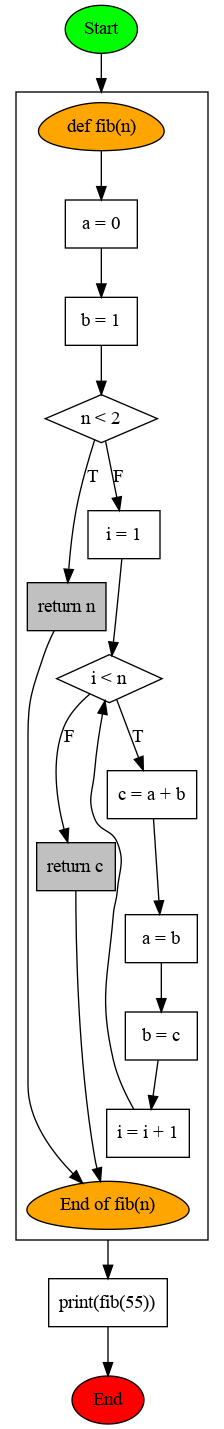
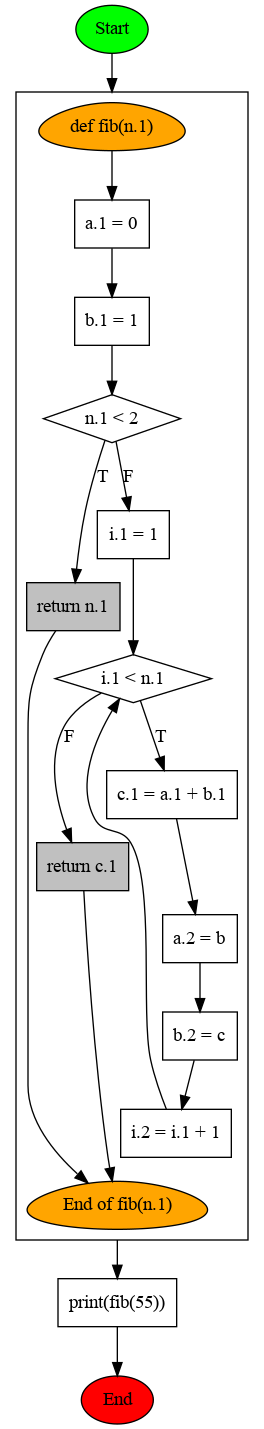
Add basic variables versioning

diff --git a/ssa/builder.py b/ssa/builder.py
@@ -26,6 +26,7 @@ from ast import (
     RShift,
 )
 from dataclasses import dataclass
+from collections import defaultdict
 
 from .statements import (
     NodeData,
@@ -97,6 +98,7 @@ class CFGBuilder(NodeVisitor):
         self.id2statement = dict()
         self.last_node_while = []
         self.id2statement[self.counter] = self.current
+        self.ssa_list = [defaultdict(int)]
 
         # Run visit process
         self.visit(tree)
@@ -117,10 +119,12 @@ class CFGBuilder(NodeVisitor):
 
     def __visit_Assign(self, node):
         variable = node.targets[0].id
+        variable_version = self.ssa_list[-1][variable] + 1
+        variable_label = f"{variable}.{variable_version}"
         if isinstance(node.value, BinOp):
             # TODO: This works only for binary operations: var `op` chat
             # Example: x = x + 1
-            lhs = node.value.left.id
+            lhs = self.__get_argument_value(node.value.left)
             operator = OPERATORS[node.value.op.__class__]
             rhs = self.__get_argument_value(node.value.right)
             value = f"{lhs} {operator} {rhs}"
@@ -137,7 +141,8 @@ class CFGBuilder(NodeVisitor):
                     value += f"{arg.id}, " if i != len(node.value.args) - 1 else arg.id
             value += ")"
 
-        label = f"{variable} = {value}"
+        label = f"{variable_label} = {value}"
+        self.ssa_list[-1][variable] += 1
 
         self.current = Statement(
             NodeData(
@@ -164,13 +169,9 @@ class CFGBuilder(NodeVisitor):
         *,
         for_data: ForAsWhileData | None = None,
     ):
-        lhs = node.test.left.id
+        lhs = self.__get_argument_value(node.test.left)
         comparator = COMPARATORS[node.test.ops[0].__class__]
-        rhs = ""
-        if isinstance(node.test.comparators[0], Constant):
-            rhs = node.test.comparators[0].value
-        elif isinstance(node.test.comparators[0], Name):
-            rhs = node.test.comparators[0].id
+        rhs = self.__get_argument_value(node.test.comparators[0])
         label = f"{lhs} {comparator} {rhs}"
 
         condition = condition_statement(
@@ -255,12 +256,11 @@ class CFGBuilder(NodeVisitor):
         self.statements.append(self.current)
         self.id2statement[self.counter] = self.current
 
-    @staticmethod
-    def __get_argument_value(arg):
+    def __get_argument_value(self, arg):
         if isinstance(arg, Constant):
             return arg.value
         elif isinstance(arg, Name):
-            return arg.id
+            return f"{arg.id}.{self.ssa_list[-1][arg.id]}"
 
     def visit_For(self, node):
         variable = node.target.id
@@ -325,8 +325,11 @@ class CFGBuilder(NodeVisitor):
         function_name = f"{name}("
         args_values = node.args.args
         args = ""
+        ssa = self.ssa_list[-1]
         for i, arg in enumerate(args_values):
-            args += f"{arg.arg}, " if i != len(args_values) - 1 else arg.arg
+            ssa[arg.arg] += 1
+            arg_label = f"{arg.arg}.{ssa[arg.arg]}"
+            args += f"{arg_label}, " if i != len(args_values) - 1 else arg_label
         function_name += f"{args})"
         label = f"def {function_name}"
 
@@ -360,12 +363,7 @@ class CFGBuilder(NodeVisitor):
         self.statements = statements
 
     def visit_Return(self, node):
-        node_value = node.value
-        value = ""
-        if isinstance(node_value, Constant):
-            value = node_value.value
-        elif isinstance(node_value, Name):
-            value = node_value.id
+        value = self.__get_argument_value(node.value)
 
         label = f"return {value}"
         self.current = ReturnStatement(
@@ -382,16 +380,18 @@ class CFGBuilder(NodeVisitor):
         label = f"{node.func.id}("
         for i, arg in enumerate(node.args):
             if isinstance(arg, Constant):
-                label += f"{arg.value}, " if i != len(node.args) - 1 else f"{arg.value}"
+                label += f"{arg.value}, " if i != len(node.args) - 1 else arg.value
             elif isinstance(arg, Name):
-                label += f"{arg.id}, " if i != len(node.args) - 1 else arg.id
+                arg_label = f"{arg.id}.{self.ssa_list[-1][arg.id]}"
+                label += f"{arg_label}, " if i != len(node.args) - 1 else arg_label
             elif isinstance(arg, Call):
                 label += f"{arg.func.id}("
                 for i, aarg in enumerate(arg.args):
                     if isinstance(aarg, Constant):
                         label += f"{aarg.value}, " if i != len(arg.args) - 1 else f"{aarg.value}"
                     elif isinstance(aarg, Name):
-                        label += f"{aarg.id}, " if i != len(arg.args) - 1 else aarg.id
+                        arg_label = f"{aarg.id}.{self.ssa_list[-1][aarg.id]}"
+                        label += f"{arg_label}, " if i != len(arg.args) - 1 else arg_label
                 label += ")"
         label += ")"
 

diff --git a/ssa/main.py b/ssa/main.py
@@ -9,7 +9,7 @@ from .graph import GraphBuilder
 def main():
     # Example of Python code
     # See `../tests/example.py` for details
-    python_code = Path("./tests/example.py").read_text(encoding="utf-8")
+    python_code = Path("./tests/fib.py").read_text(encoding="utf-8")
 
     # Validate that syntax is correct
     try:

diff --git a/tests/example.py b/tests/example.py
@@ -1,15 +1,7 @@
-def fib(n):
-    a = 0
-    b = 1
+x = 1
+x = 2
+x = x + 1
+x = 1 + x
 
-    if n < 2:
-        return n
-
-    for i in range(1, n):
-        c = a + b
-        a = b
-        b = c
-
-    return c
-
-print(fib(55))
+if 10 > x:
+    y = 0

diff --git a/tests/fib.py b/tests/fib.py
@@ -1,0 +1,15 @@
+def fib(n):
+    a = 0
+    b = 1
+
+    if n < 2:
+        return n
+
+    for i in range(1, n):
+        c = a + b
+        a = b
+        b = c
+
+    return c
+
+print(fib(55))
